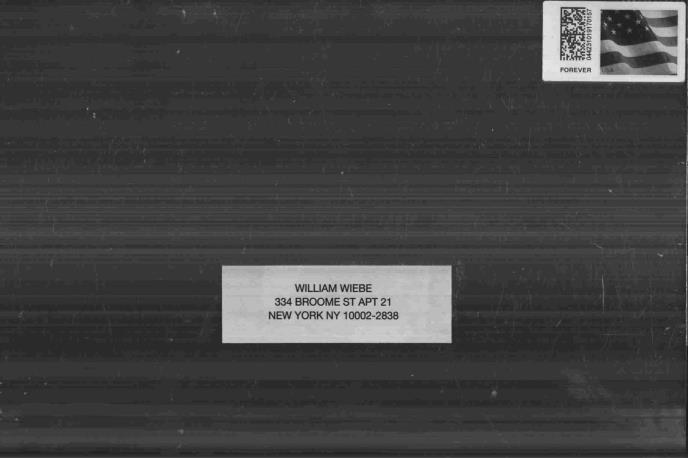
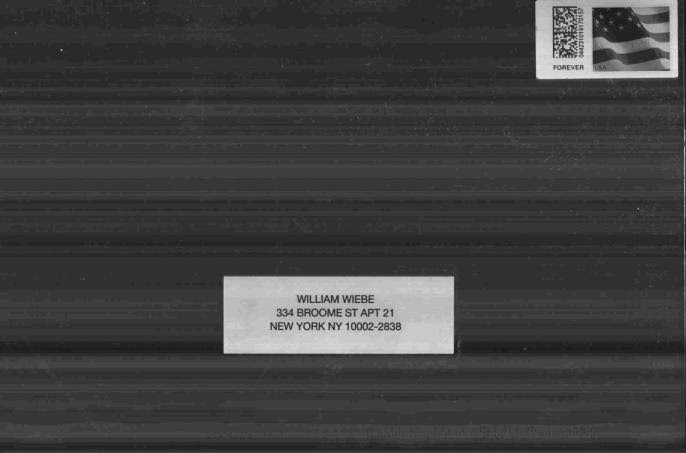
tlpl images

diff --git a/taking-longer-producing-less.html b/taking-longer-producing-less.html
@@ -74,6 +74,18 @@
         Image produced by postal automation equipment
       </p>
       <p>
+        <img src="media/TLPL-3.jpg" /><strong
+          >Taking Longer and Producing Less</strong
+        >, 2020<br />
+        Image produced by postal automation equipment
+      </p>
+      <p>
+        <img src="media/TLPL-4.jpg" /><strong
+          >Taking Longer and Producing Less</strong
+        >, 2020<br />
+        Image produced by postal automation equipment
+      </p>
+      <p>
         <img src="media/TLPL-3.gif" /><strong
           >Taking Longer and Producing Less</strong
         >, 2020<br />
